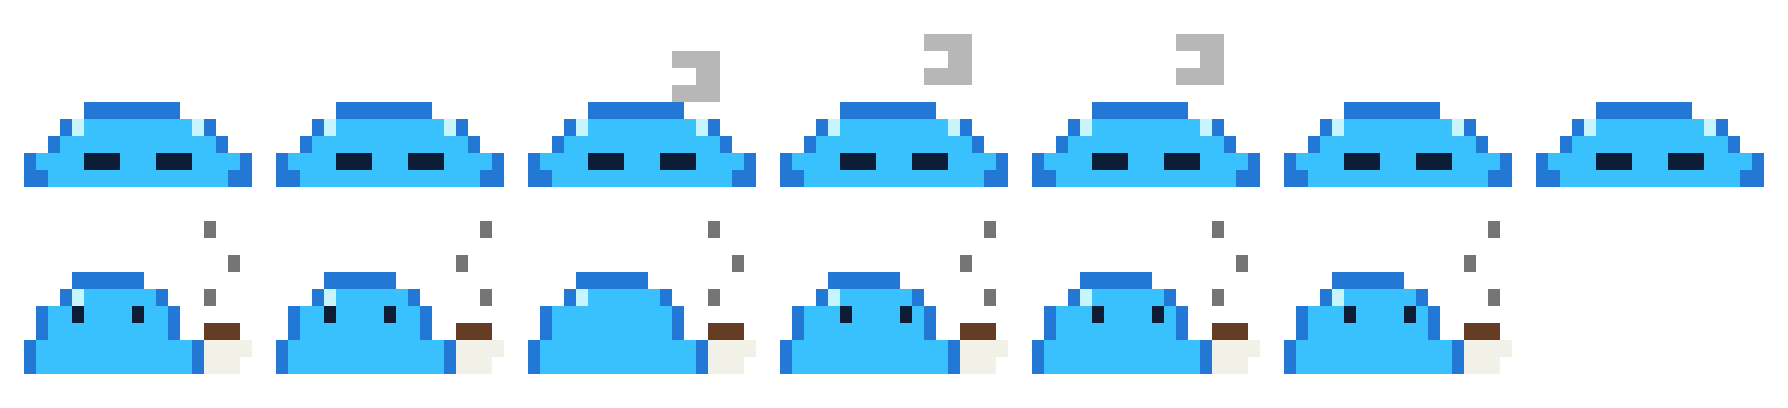
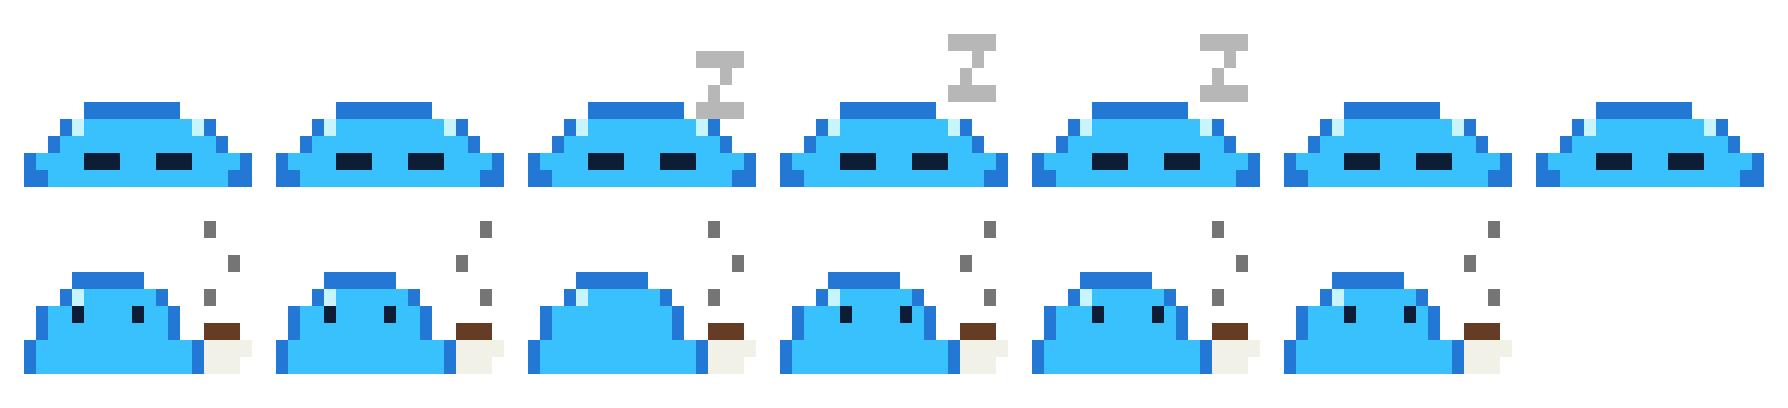
add claude + change art

Changed region(s): [[0.3691, 0.1176, 0.4306, 0.2941], [0.646, 0.0882, 0.7075, 0.2647], [0.4922, 0.0882, 0.5845, 0.2647]]

diff --git a/hooks/register.tsx b/hooks/register.tsx
@@ -1,0 +1,83 @@
+import { atom, read, update } from 'claude-code'
+import type { Register } from 'claude-code'
+
+// Shared with the omp extension: `mascot/art.ts` stays the single source of art.
+import { ART } from '../mascot/art'
+
+const TICK_MS = 220
+const frame = atom({ plugin: 'omp-mascot', key: 'frame' } as const, 0)
+
+type Cell = { char: string; fg?: string; bg?: string }
+
+/** Two art pixels per terminal cell, as a half block: foreground above, background below. */
+function cellAt(top: string, bottom: string): Cell {
+  const fg = top === '0' ? undefined : ART.palette[parseInt(top, 36) - 1]
+  const bg = bottom === '0' ? undefined : ART.palette[parseInt(bottom, 36) - 1]
+  if (fg && bg) return { char: '▀', fg, bg }
+  if (fg) return { char: '▀', fg }
+  if (bg) return { char: '▄', fg: bg }
+  return { char: ' ' }
+}
+
+async function frameOf(name: 'idle' | 'working', $: any): Promise<readonly string[]> {
+  const { frames } = ART.anims[name]!
+  return frames[(await read($, frame)) % frames.length]!
+}
+
+/** The art as rows of half-block cells. */
+function Sprite({ Box, Text, art }: { Box: any; Text: any; art: readonly string[] }) {
+  const rows = Math.ceil(ART.pxRows / 2)
+
+  return (
+    <Box flexDirection="column">
+      {Array.from({ length: rows }, (_, r) => (
+        <Box key={r}>
+          {Array.from({ length: ART.cols }, (_, c) => {
+            const cell = cellAt(art[r * 2]![c]!, art[r * 2 + 1]?.[c] ?? '0')
+            return (
+              <Text key={c} color={cell.fg} backgroundColor={cell.bg}>
+                {cell.char}
+              </Text>
+            )
+          })}
+        </Box>
+      ))}
+    </Box>
+  )
+}
+
+export const register: Register = on => {
+  on('session.start', ($, e, next) => {
+    // One tick drives both poses: the spinner while a turn runs, the band while idle.
+    $.clock.every(TICK_MS, () => void update($, frame, n => n + 1))
+
+    return next(e)
+  })
+
+  on('ui.render', { component: 'Spinner' }, async ($, e) => {
+    const { Box, Text } = $.ui.resolve(e)
+    const art = await frameOf('working', $)
+
+    return (
+      <Box flexDirection="row" alignItems="center" marginTop={1}>
+        <Sprite Box={Box} Text={Text} art={art} />
+        <Text dimColor> {e.props.message ?? e.props.word}{e.props.suffix}</Text>
+      </Box>
+    )
+  })
+
+  // Idle: the spinner is gone between turns, so the dozing puddle sits above the prompt.
+  on('ui.render', { component: 'AbovePrompt' }, async ($, e, next) => {
+    if (e.props.hasSurvey || e.props.isWorking) return next(e)
+
+    const { Box, Text } = $.ui.resolve(e)
+    const art = await frameOf('idle', $)
+
+    return (
+      <Box flexDirection="row" alignItems="center" marginTop={1}>
+        <Sprite Box={Box} Text={Text} art={art} />
+        <Text dimColor> …</Text>
+      </Box>
+    )
+  })
+}

diff --git a/mascot/art.ts b/mascot/art.ts
@@ -34,8 +34,12 @@ const PUDDLE = [
 	"2211111111111111122",
 ];
 
-/** A little `z` that drifts up over the puddle while it sleeps. */
-const Z = ["6666", "0066", "6666"];
+/**
+ * A little `z` that drifts up over the puddle while it sleeps. Both inner rows
+ * carry a single pixel, so the diagonal is a one-pixel staircase from the
+ * top-right corner down to the bottom-left one.
+ */
+const Z = ["6666", "0060", "0600", "6666"];
 
 /**
  * Thinking pose: the mascot holds a mug in its right hand. The squat body sits
@@ -85,10 +89,10 @@ function overlay(base: readonly string[], sprite: readonly string[], top: number
 }
 
 /** The `z` drifting up into its peak over the puddle. */
-const DOZING = overlay(PUDDLE, Z, 1, 12);
+const DOZING = overlay(PUDDLE, Z, 1, 14);
 
 /** The `z` at the top of its drift, held for a beat. */
-const DOZE = overlay(PUDDLE, Z, 0, 12);
+const DOZE = overlay(PUDDLE, Z, 0, 14);
 
 export type Art = {
 	readonly cols: number;

diff --git a/types/index.d.ts b/types/index.d.ts
@@ -1,0 +1,7 @@
+export type MascotFrame = number
+
+declare module 'claude-code' {
+  interface PluginState {
+    'omp-mascot': { frame: MascotFrame }
+  }
+}
